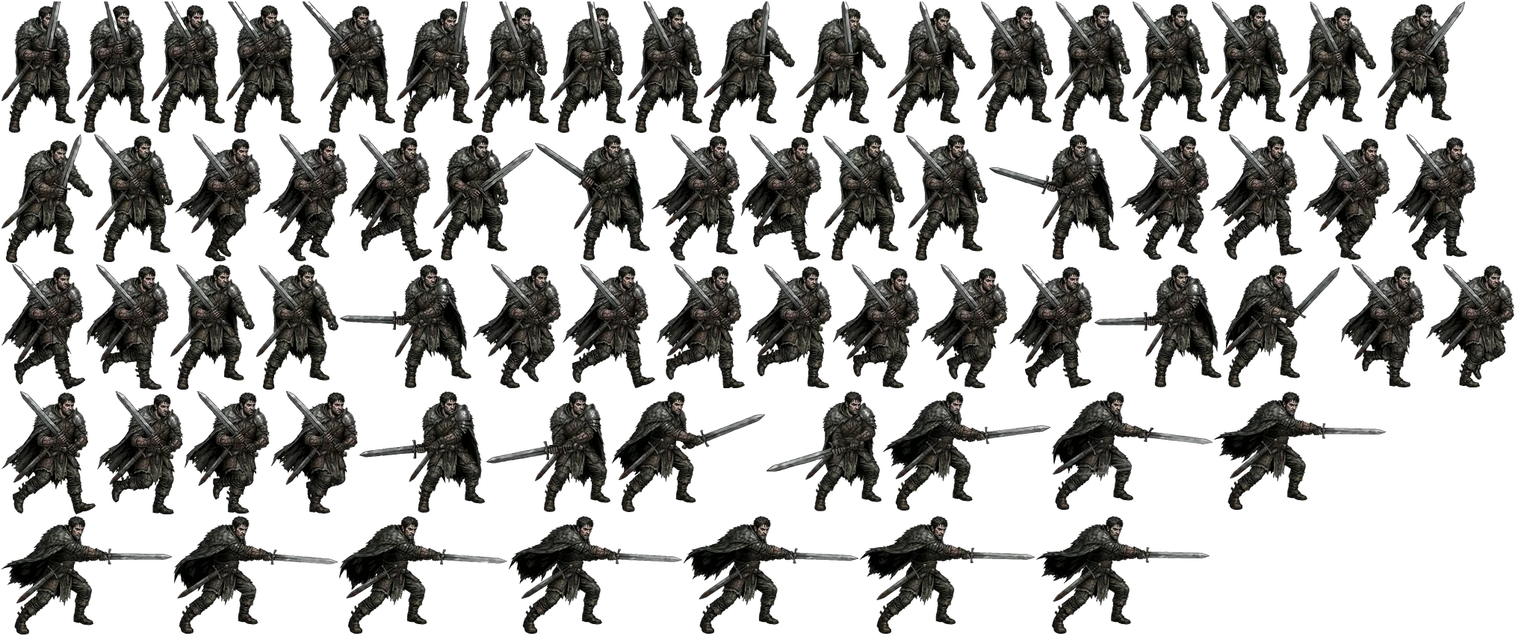
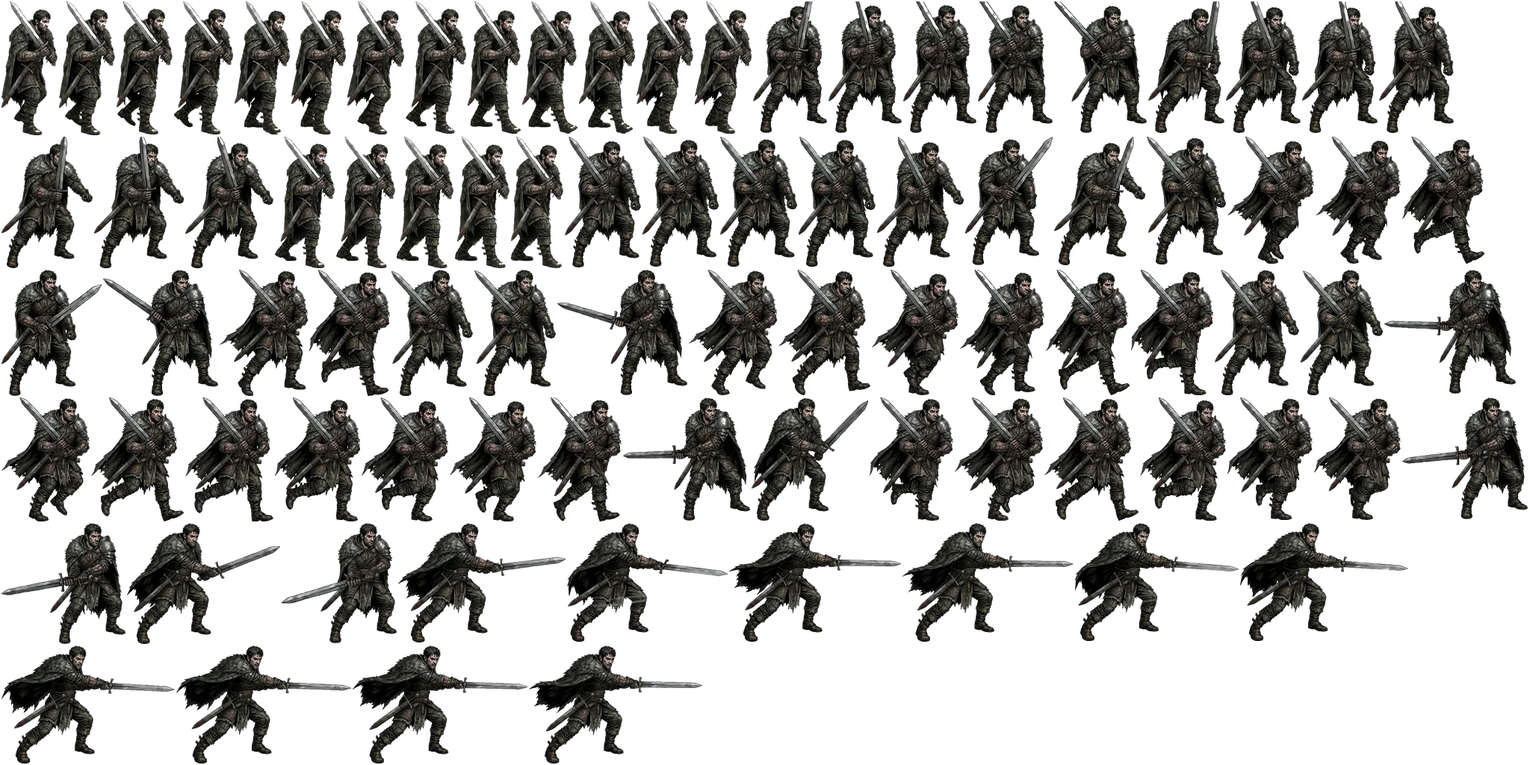
Cofanie się w gardzie z dwuręcznym z filmu Flow
Patryk, 24 XI 19:12: „musi być widać to cofanie”. Pętla z klatek 56–90 filmu z 24 XI 19:46.

Agent: Claude (Opus)
Claude-Session: https://claude.ai/code/session_01GQsjt3bZ7B4T5Es8veBj7T

diff --git a/gra/klatki-bohatera-wielki.js b/gra/klatki-bohatera-wielki.js
@@ -3,5 +3,5 @@
 // ANIMACJE: które klatki po kolei tworzą daną animację. SKALA: ile jednostek świata ma jeden piksel obrazu. PATRZY: 1, bo w filmach postać patrzy w prawo.
 export const SKALA = 0.5882;
 export const PATRZY = 1;
-export const ANIMACJE = {"zamach": ["film-wielki-ciecie4", "film-wielki-ciecie8", "film-wielki-ciecie12", "film-wielki-ciecie16", "film-wielki-ciecie20", "film-wielki-ciecie24", "film-wielki-ciecie28", "film-wielki-ciecie32", "film-wielki-ciecie36", "film-wielki-ciecie40", "film-wielki-ciecie44", "film-wielki-ciecie48", "film-wielki-ciecie50"], "ciecie": ["film-wielki-ciecie52", "film-wielki-ciecie58", "film-wielki-ciecie59", "film-wielki-ciecie60", "film-wielki-ciecie62", "film-wielki-ciecie64", "film-wielki-ciecie66"], "powrot": ["film-wielki-ciecie70", "film-wielki-ciecie73", "film-wielki-ciecie76", "film-wielki-ciecie79", "film-wielki-ciecie82", "film-wielki-ciecie85", "film-wielki-ciecie88", "film-wielki-ciecie91", "film-wielki-ciecie94", "film-wielki-ciecie96"], "gotowosc": ["film-wielki-ciecie88", "film-wielki-ciecie90", "film-wielki-ciecie92", "film-wielki-ciecie94", "film-wielki-ciecie96"], "bieg_miecz": ["film-wielki-bieg10", "film-wielki-bieg11", "film-wielki-bieg12", "film-wielki-bieg13", "film-wielki-bieg14", "film-wielki-bieg15", "film-wielki-bieg16", "film-wielki-bieg17", "film-wielki-bieg18", "film-wielki-bieg19", "film-wielki-bieg20", "film-wielki-bieg21", "film-wielki-bieg22", "film-wielki-bieg23", "film-wielki-bieg24", "film-wielki-bieg25", "film-wielki-bieg26", "film-wielki-bieg27", "film-wielki-bieg28", "film-wielki-bieg29", "film-wielki-bieg30", "film-wielki-bieg31", "film-wielki-bieg32", "film-wielki-bieg33"], "blok_unosi": ["film-wielki-blok96", "film-wielki-blok90", "film-wielki-blok84", "film-wielki-blok80", "film-wielki-blok77", "film-wielki-blok75"], "blok_trzyma": ["film-wielki-blok71", "film-wielki-blok72", "film-wielki-blok73", "film-wielki-blok74", "film-wielki-blok75"], "blok_cios": ["film-wielki-blok72", "film-wielki-blok75", "film-wielki-blok78", "film-wielki-blok81", "film-wielki-blok78", "film-wielki-blok75", "film-wielki-blok72"]};
-export const KLATKI = {"film-wielki-ciecie4": {"w": 134, "h": 169, "ax": 0.3123, "ay": 0.9822, "x": 580, "y": 180}, "film-wielki-ciecie8": {"w": 117, "h": 172, "ax": 0.3547, "ay": 0.9826, "x": 1844, "y": 2}, "film-wielki-ciecie12": {"w": 99, "h": 176, "ax": 0.4192, "ay": 0.9829, "x": 2, "y": 2}, "film-wielki-ciecie16": {"w": 98, "h": 176, "ax": 0.4162, "ay": 0.9829, "x": 103, "y": 2}, "film-wielki-ciecie20": {"w": 98, "h": 176, "ax": 0.4162, "ay": 0.9829, "x": 203, "y": 2}, "film-wielki-ciecie24": {"w": 100, "h": 176, "ax": 0.4221, "ay": 0.9829, "x": 303, "y": 2}, "film-wielki-ciecie28": {"w": 124, "h": 176, "ax": 0.5382, "ay": 0.9829, "x": 405, "y": 2}, "film-wielki-ciecie32": {"w": 154, "h": 169, "ax": 0.6266, "ay": 0.9822, "x": 716, "y": 180}, "film-wielki-ciecie36": {"w": 174, "h": 168, "ax": 0.6695, "ay": 0.9821, "x": 1324, "y": 180}, "film-wielki-ciecie40": {"w": 176, "h": 166, "ax": 0.6742, "ay": 0.982, "x": 455, "y": 354}, "film-wielki-ciecie44": {"w": 170, "h": 165, "ax": 0.6618, "ay": 0.9818, "x": 1465, "y": 354}, "film-wielki-ciecie48": {"w": 168, "h": 163, "ax": 0.6567, "ay": 0.9816, "x": 481, "y": 524}, "film-wielki-ciecie50": {"w": 166, "h": 162, "ax": 0.6547, "ay": 0.9815, "x": 651, "y": 524}, "film-wielki-ciecie52": {"w": 154, "h": 161, "ax": 0.6278, "ay": 0.9814, "x": 1026, "y": 524}, "film-wielki-ciecie58": {"w": 215, "h": 159, "ax": 0.2395, "ay": 0.9811, "x": 1408, "y": 524}, "film-wielki-ciecie59": {"w": 220, "h": 158, "ax": 0.254, "ay": 0.9811, "x": 232, "y": 691}, "film-wielki-ciecie60": {"w": 225, "h": 158, "ax": 0.2667, "ay": 0.9811, "x": 454, "y": 691}, "film-wielki-ciecie62": {"w": 232, "h": 158, "ax": 0.2894, "ay": 0.9811, "x": 681, "y": 691}, "film-wielki-ciecie64": {"w": 234, "h": 158, "ax": 0.2991, "ay": 0.9811, "x": 915, "y": 691}, "film-wielki-ciecie66": {"w": 234, "h": 158, "ax": 0.3028, "ay": 0.9811, "x": 1151, "y": 691}, "film-wielki-ciecie70": {"w": 232, "h": 158, "ax": 0.2989, "ay": 0.9811, "x": 1387, "y": 691}, "film-wielki-ciecie73": {"w": 230, "h": 159, "ax": 0.2919, "ay": 0.9811, "x": 1625, "y": 524}, "film-wielki-ciecie76": {"w": 228, "h": 159, "ax": 0.2873, "ay": 0.9811, "x": 2, "y": 691}, "film-wielki-ciecie79": {"w": 224, "h": 160, "ax": 0.2784, "ay": 0.9813, "x": 1182, "y": 524}, "film-wielki-ciecie82": {"w": 205, "h": 162, "ax": 0.2683, "ay": 0.9815, "x": 819, "y": 524}, "film-wielki-ciecie85": {"w": 156, "h": 165, "ax": 0.2926, "ay": 0.9818, "x": 1637, "y": 354}, "film-wielki-ciecie88": {"w": 102, "h": 176, "ax": 0.4363, "ay": 0.9829, "x": 531, "y": 2}, "film-wielki-ciecie91": {"w": 100, "h": 176, "ax": 0.4279, "ay": 0.9829, "x": 635, "y": 2}, "film-wielki-ciecie94": {"w": 102, "h": 175, "ax": 0.4146, "ay": 0.9829, "x": 1308, "y": 2}, "film-wielki-ciecie96": {"w": 102, "h": 174, "ax": 0.4098, "ay": 0.9827, "x": 1412, "y": 2}, "film-wielki-ciecie90": {"w": 101, "h": 176, "ax": 0.4307, "ay": 0.9829, "x": 737, "y": 2}, "film-wielki-ciecie92": {"w": 100, "h": 176, "ax": 0.4279, "ay": 0.9829, "x": 840, "y": 2}, "film-wielki-bieg10": {"w": 112, "h": 165, "ax": 0.4933, "ay": 0.9788, "x": 1795, "y": 354}, "film-wielki-bieg11": {"w": 114, "h": 164, "ax": 0.5022, "ay": 0.9817, "x": 247, "y": 524}, "film-wielki-bieg12": {"w": 116, "h": 164, "ax": 0.5108, "ay": 0.9817, "x": 363, "y": 524}, "film-wielki-bieg13": {"w": 118, "h": 165, "ax": 0.5191, "ay": 0.9848, "x": 1909, "y": 354}, "film-wielki-bieg14": {"w": 118, "h": 166, "ax": 0.5212, "ay": 0.985, "x": 633, "y": 354}, "film-wielki-bieg15": {"w": 118, "h": 168, "ax": 0.5254, "ay": 0.9852, "x": 1500, "y": 180}, "film-wielki-bieg16": {"w": 118, "h": 169, "ax": 0.5234, "ay": 0.9911, "x": 872, "y": 180}, "film-wielki-bieg17": {"w": 123, "h": 168, "ax": 0.4919, "ay": 1.003, "x": 1620, "y": 180}, "film-wielki-bieg18": {"w": 126, "h": 165, "ax": 0.4741, "ay": 1.0212, "x": 2, "y": 524}, "film-wielki-bieg19": {"w": 124, "h": 166, "ax": 0.4737, "ay": 1.009, "x": 753, "y": 354}, "film-wielki-bieg20": {"w": 118, "h": 166, "ax": 0.4895, "ay": 1.003, "x": 879, "y": 354}, "film-wielki-bieg21": {"w": 114, "h": 166, "ax": 0.511, "ay": 0.988, "x": 999, "y": 354}, "film-wielki-bieg22": {"w": 115, "h": 165, "ax": 0.513, "ay": 0.9909, "x": 130, "y": 524}, "film-wielki-bieg23": {"w": 116, "h": 166, "ax": 0.5152, "ay": 0.9909, "x": 1115, "y": 354}, "film-wielki-bieg24": {"w": 116, "h": 166, "ax": 0.5193, "ay": 0.994, "x": 1233, "y": 354}, "film-wielki-bieg25": {"w": 116, "h": 168, "ax": 0.5172, "ay": 0.994, "x": 1745, "y": 180}, "film-wielki-bieg26": {"w": 116, "h": 170, "ax": 0.5152, "ay": 0.9971, "x": 234, "y": 180}, "film-wielki-bieg27": {"w": 114, "h": 170, "ax": 0.5109, "ay": 1.0, "x": 352, "y": 180}, "film-wielki-bieg28": {"w": 113, "h": 168, "ax": 0.5044, "ay": 1.0089, "x": 1863, "y": 180}, "film-wielki-bieg29": {"w": 112, "h": 166, "ax": 0.4978, "ay": 1.021, "x": 1351, "y": 354}, "film-wielki-bieg30": {"w": 112, "h": 168, "ax": 0.4821, "ay": 1.0089, "x": 2, "y": 354}, "film-wielki-bieg31": {"w": 110, "h": 170, "ax": 0.4796, "ay": 0.9971, "x": 468, "y": 180}, "film-wielki-bieg32": {"w": 108, "h": 169, "ax": 0.4839, "ay": 0.9882, "x": 992, "y": 180}, "film-wielki-bieg33": {"w": 110, "h": 168, "ax": 0.4886, "ay": 0.9791, "x": 116, "y": 354}, "film-wielki-blok96": {"w": 103, "h": 174, "ax": 0.4078, "ay": 0.9827, "x": 1516, "y": 2}, "film-wielki-blok90": {"w": 103, "h": 174, "ax": 0.4078, "ay": 0.9828, "x": 1621, "y": 2}, "film-wielki-blok84": {"w": 106, "h": 171, "ax": 0.4171, "ay": 0.9825, "x": 126, "y": 180}, "film-wielki-blok80": {"w": 109, "h": 169, "ax": 0.3945, "ay": 0.9822, "x": 1102, "y": 180}, "film-wielki-blok77": {"w": 113, "h": 168, "ax": 0.3628, "ay": 0.9822, "x": 228, "y": 354}, "film-wielki-blok75": {"w": 116, "h": 174, "ax": 0.3448, "ay": 0.9828, "x": 1726, "y": 2}, "film-wielki-blok71": {"w": 122, "h": 172, "ax": 0.3224, "ay": 0.9884, "x": 2, "y": 180}, "film-wielki-blok72": {"w": 122, "h": 176, "ax": 0.3251, "ay": 0.9829, "x": 942, "y": 2}, "film-wielki-blok73": {"w": 120, "h": 176, "ax": 0.3305, "ay": 0.9829, "x": 1066, "y": 2}, "film-wielki-blok74": {"w": 118, "h": 176, "ax": 0.3376, "ay": 0.9829, "x": 1188, "y": 2}, "film-wielki-blok78": {"w": 110, "h": 168, "ax": 0.371, "ay": 0.9822, "x": 343, "y": 354}, "film-wielki-blok81": {"w": 109, "h": 169, "ax": 0.4083, "ay": 0.9822, "x": 1213, "y": 180}};
+export const ANIMACJE = {"zamach": ["film-wielki-ciecie4", "film-wielki-ciecie8", "film-wielki-ciecie12", "film-wielki-ciecie16", "film-wielki-ciecie20", "film-wielki-ciecie24", "film-wielki-ciecie28", "film-wielki-ciecie32", "film-wielki-ciecie36", "film-wielki-ciecie40", "film-wielki-ciecie44", "film-wielki-ciecie48", "film-wielki-ciecie50"], "ciecie": ["film-wielki-ciecie52", "film-wielki-ciecie58", "film-wielki-ciecie59", "film-wielki-ciecie60", "film-wielki-ciecie62", "film-wielki-ciecie64", "film-wielki-ciecie66"], "powrot": ["film-wielki-ciecie70", "film-wielki-ciecie73", "film-wielki-ciecie76", "film-wielki-ciecie79", "film-wielki-ciecie82", "film-wielki-ciecie85", "film-wielki-ciecie88", "film-wielki-ciecie91", "film-wielki-ciecie94", "film-wielki-ciecie96"], "gotowosc": ["film-wielki-ciecie88", "film-wielki-ciecie90", "film-wielki-ciecie92", "film-wielki-ciecie94", "film-wielki-ciecie96"], "bieg_miecz": ["film-wielki-bieg10", "film-wielki-bieg11", "film-wielki-bieg12", "film-wielki-bieg13", "film-wielki-bieg14", "film-wielki-bieg15", "film-wielki-bieg16", "film-wielki-bieg17", "film-wielki-bieg18", "film-wielki-bieg19", "film-wielki-bieg20", "film-wielki-bieg21", "film-wielki-bieg22", "film-wielki-bieg23", "film-wielki-bieg24", "film-wielki-bieg25", "film-wielki-bieg26", "film-wielki-bieg27", "film-wielki-bieg28", "film-wielki-bieg29", "film-wielki-bieg30", "film-wielki-bieg31", "film-wielki-bieg32", "film-wielki-bieg33"], "blok_unosi": ["film-wielki-blok96", "film-wielki-blok90", "film-wielki-blok84", "film-wielki-blok80", "film-wielki-blok77", "film-wielki-blok75"], "blok_trzyma": ["film-wielki-blok71", "film-wielki-blok72", "film-wielki-blok73", "film-wielki-blok74", "film-wielki-blok75"], "blok_cios": ["film-wielki-blok72", "film-wielki-blok75", "film-wielki-blok78", "film-wielki-blok81", "film-wielki-blok78", "film-wielki-blok75", "film-wielki-blok72"], "cofa": ["film-wielki-cofa56s", "film-wielki-cofa58s", "film-wielki-cofa60s", "film-wielki-cofa62s", "film-wielki-cofa64s", "film-wielki-cofa66s", "film-wielki-cofa68s", "film-wielki-cofa70s", "film-wielki-cofa72s", "film-wielki-cofa74s", "film-wielki-cofa76s", "film-wielki-cofa78s", "film-wielki-cofa80s", "film-wielki-cofa82s", "film-wielki-cofa84s", "film-wielki-cofa86s", "film-wielki-cofa88s", "film-wielki-cofa90s"]};
+export const KLATKI = {"film-wielki-ciecie4": {"w": 134, "h": 169, "ax": 0.3123, "ay": 0.9822, "x": 2, "y": 361}, "film-wielki-ciecie8": {"w": 117, "h": 172, "ax": 0.3547, "ay": 0.9826, "x": 1292, "y": 183}, "film-wielki-ciecie12": {"w": 99, "h": 176, "ax": 0.4192, "ay": 0.9829, "x": 1008, "y": 2}, "film-wielki-ciecie16": {"w": 98, "h": 176, "ax": 0.4162, "ay": 0.9829, "x": 1109, "y": 2}, "film-wielki-ciecie20": {"w": 98, "h": 176, "ax": 0.4162, "ay": 0.9829, "x": 1209, "y": 2}, "film-wielki-ciecie24": {"w": 100, "h": 176, "ax": 0.4221, "ay": 0.9829, "x": 1309, "y": 2}, "film-wielki-ciecie28": {"w": 124, "h": 176, "ax": 0.5382, "ay": 0.9829, "x": 1411, "y": 2}, "film-wielki-ciecie32": {"w": 154, "h": 169, "ax": 0.6266, "ay": 0.9822, "x": 138, "y": 361}, "film-wielki-ciecie36": {"w": 174, "h": 168, "ax": 0.6695, "ay": 0.9821, "x": 746, "y": 361}, "film-wielki-ciecie40": {"w": 176, "h": 166, "ax": 0.6742, "ay": 0.982, "x": 1853, "y": 361}, "film-wielki-ciecie44": {"w": 170, "h": 165, "ax": 0.6618, "ay": 0.9818, "x": 834, "y": 532}, "film-wielki-ciecie48": {"w": 168, "h": 163, "ax": 0.6567, "ay": 0.9816, "x": 1877, "y": 532}, "film-wielki-ciecie50": {"w": 166, "h": 162, "ax": 0.6547, "ay": 0.9815, "x": 2, "y": 700}, "film-wielki-ciecie52": {"w": 154, "h": 161, "ax": 0.6278, "ay": 0.9814, "x": 377, "y": 700}, "film-wielki-ciecie58": {"w": 215, "h": 159, "ax": 0.2395, "ay": 0.9811, "x": 759, "y": 700}, "film-wielki-ciecie59": {"w": 220, "h": 158, "ax": 0.254, "ay": 0.9811, "x": 1438, "y": 700}, "film-wielki-ciecie60": {"w": 225, "h": 158, "ax": 0.2667, "ay": 0.9811, "x": 1660, "y": 700}, "film-wielki-ciecie62": {"w": 232, "h": 158, "ax": 0.2894, "ay": 0.9811, "x": 2, "y": 864}, "film-wielki-ciecie64": {"w": 234, "h": 158, "ax": 0.2991, "ay": 0.9811, "x": 236, "y": 864}, "film-wielki-ciecie66": {"w": 234, "h": 158, "ax": 0.3028, "ay": 0.9811, "x": 472, "y": 864}, "film-wielki-ciecie70": {"w": 232, "h": 158, "ax": 0.2989, "ay": 0.9811, "x": 708, "y": 864}, "film-wielki-ciecie73": {"w": 230, "h": 159, "ax": 0.2919, "ay": 0.9811, "x": 976, "y": 700}, "film-wielki-ciecie76": {"w": 228, "h": 159, "ax": 0.2873, "ay": 0.9811, "x": 1208, "y": 700}, "film-wielki-ciecie79": {"w": 224, "h": 160, "ax": 0.2784, "ay": 0.9813, "x": 533, "y": 700}, "film-wielki-ciecie82": {"w": 205, "h": 162, "ax": 0.2683, "ay": 0.9815, "x": 170, "y": 700}, "film-wielki-ciecie85": {"w": 156, "h": 165, "ax": 0.2926, "ay": 0.9818, "x": 1006, "y": 532}, "film-wielki-ciecie88": {"w": 102, "h": 176, "ax": 0.4363, "ay": 0.9829, "x": 1537, "y": 2}, "film-wielki-ciecie91": {"w": 100, "h": 176, "ax": 0.4279, "ay": 0.9829, "x": 1641, "y": 2}, "film-wielki-ciecie94": {"w": 102, "h": 175, "ax": 0.4146, "ay": 0.9829, "x": 756, "y": 183}, "film-wielki-ciecie96": {"w": 102, "h": 174, "ax": 0.4098, "ay": 0.9827, "x": 860, "y": 183}, "film-wielki-ciecie90": {"w": 101, "h": 176, "ax": 0.4307, "ay": 0.9829, "x": 1743, "y": 2}, "film-wielki-ciecie92": {"w": 100, "h": 176, "ax": 0.4279, "ay": 0.9829, "x": 1846, "y": 2}, "film-wielki-bieg10": {"w": 112, "h": 165, "ax": 0.4933, "ay": 0.9788, "x": 1164, "y": 532}, "film-wielki-bieg11": {"w": 114, "h": 164, "ax": 0.5022, "ay": 0.9817, "x": 1643, "y": 532}, "film-wielki-bieg12": {"w": 116, "h": 164, "ax": 0.5108, "ay": 0.9817, "x": 1759, "y": 532}, "film-wielki-bieg13": {"w": 118, "h": 165, "ax": 0.5191, "ay": 0.9848, "x": 1278, "y": 532}, "film-wielki-bieg14": {"w": 118, "h": 166, "ax": 0.5212, "ay": 0.985, "x": 2, "y": 532}, "film-wielki-bieg15": {"w": 118, "h": 168, "ax": 0.5254, "ay": 0.9852, "x": 922, "y": 361}, "film-wielki-bieg16": {"w": 118, "h": 169, "ax": 0.5234, "ay": 0.9911, "x": 294, "y": 361}, "film-wielki-bieg17": {"w": 123, "h": 168, "ax": 0.4919, "ay": 1.003, "x": 1042, "y": 361}, "film-wielki-bieg18": {"w": 126, "h": 165, "ax": 0.4741, "ay": 1.0212, "x": 1398, "y": 532}, "film-wielki-bieg19": {"w": 124, "h": 166, "ax": 0.4737, "ay": 1.009, "x": 122, "y": 532}, "film-wielki-bieg20": {"w": 118, "h": 166, "ax": 0.4895, "ay": 1.003, "x": 248, "y": 532}, "film-wielki-bieg21": {"w": 114, "h": 166, "ax": 0.511, "ay": 0.988, "x": 368, "y": 532}, "film-wielki-bieg22": {"w": 115, "h": 165, "ax": 0.513, "ay": 0.9909, "x": 1526, "y": 532}, "film-wielki-bieg23": {"w": 116, "h": 166, "ax": 0.5152, "ay": 0.9909, "x": 484, "y": 532}, "film-wielki-bieg24": {"w": 116, "h": 166, "ax": 0.5193, "ay": 0.994, "x": 602, "y": 532}, "film-wielki-bieg25": {"w": 116, "h": 168, "ax": 0.5172, "ay": 0.994, "x": 1167, "y": 361}, "film-wielki-bieg26": {"w": 116, "h": 170, "ax": 0.5152, "ay": 0.9971, "x": 1643, "y": 183}, "film-wielki-bieg27": {"w": 114, "h": 170, "ax": 0.5109, "ay": 1.0, "x": 1761, "y": 183}, "film-wielki-bieg28": {"w": 113, "h": 168, "ax": 0.5044, "ay": 1.0089, "x": 1285, "y": 361}, "film-wielki-bieg29": {"w": 112, "h": 166, "ax": 0.4978, "ay": 1.021, "x": 720, "y": 532}, "film-wielki-bieg30": {"w": 112, "h": 168, "ax": 0.4821, "ay": 1.0089, "x": 1400, "y": 361}, "film-wielki-bieg31": {"w": 110, "h": 170, "ax": 0.4796, "ay": 0.9971, "x": 1877, "y": 183}, "film-wielki-bieg32": {"w": 108, "h": 169, "ax": 0.4839, "ay": 0.9882, "x": 414, "y": 361}, "film-wielki-bieg33": {"w": 110, "h": 168, "ax": 0.4886, "ay": 0.9791, "x": 1514, "y": 361}, "film-wielki-blok96": {"w": 103, "h": 174, "ax": 0.4078, "ay": 0.9827, "x": 964, "y": 183}, "film-wielki-blok90": {"w": 103, "h": 174, "ax": 0.4078, "ay": 0.9828, "x": 1069, "y": 183}, "film-wielki-blok84": {"w": 106, "h": 171, "ax": 0.4171, "ay": 0.9825, "x": 1535, "y": 183}, "film-wielki-blok80": {"w": 109, "h": 169, "ax": 0.3945, "ay": 0.9822, "x": 524, "y": 361}, "film-wielki-blok77": {"w": 113, "h": 168, "ax": 0.3628, "ay": 0.9822, "x": 1626, "y": 361}, "film-wielki-blok75": {"w": 116, "h": 174, "ax": 0.3448, "ay": 0.9828, "x": 1174, "y": 183}, "film-wielki-blok71": {"w": 122, "h": 172, "ax": 0.3224, "ay": 0.9884, "x": 1411, "y": 183}, "film-wielki-blok72": {"w": 122, "h": 176, "ax": 0.3251, "ay": 0.9829, "x": 2, "y": 183}, "film-wielki-blok73": {"w": 120, "h": 176, "ax": 0.3305, "ay": 0.9829, "x": 126, "y": 183}, "film-wielki-blok74": {"w": 118, "h": 176, "ax": 0.3376, "ay": 0.9829, "x": 248, "y": 183}, "film-wielki-blok78": {"w": 110, "h": 168, "ax": 0.371, "ay": 0.9822, "x": 1741, "y": 361}, "film-wielki-blok81": {"w": 109, "h": 169, "ax": 0.4083, "ay": 0.9822, "x": 635, "y": 361}, "film-wielki-cofa56s": {"w": 75, "h": 179, "ax": 0.5241, "ay": 0.9943, "x": 2, "y": 2}, "film-wielki-cofa58s": {"w": 75, "h": 179, "ax": 0.513, "ay": 0.9942, "x": 79, "y": 2}, "film-wielki-cofa60s": {"w": 75, "h": 178, "ax": 0.5051, "ay": 0.9942, "x": 156, "y": 2}, "film-wielki-cofa62s": {"w": 79, "h": 178, "ax": 0.5374, "ay": 0.9942, "x": 233, "y": 2}, "film-wielki-cofa64s": {"w": 81, "h": 177, "ax": 0.5495, "ay": 0.9942, "x": 543, "y": 2}, "film-wielki-cofa66s": {"w": 80, "h": 176, "ax": 0.5471, "ay": 0.9942, "x": 368, "y": 183}, "film-wielki-cofa68s": {"w": 79, "h": 176, "ax": 0.5416, "ay": 0.9941, "x": 450, "y": 183}, "film-wielki-cofa70s": {"w": 76, "h": 176, "ax": 0.5316, "ay": 0.9941, "x": 531, "y": 183}, "film-wielki-cofa72s": {"w": 73, "h": 176, "ax": 0.5258, "ay": 0.9941, "x": 609, "y": 183}, "film-wielki-cofa74s": {"w": 70, "h": 176, "ax": 0.5166, "ay": 0.9942, "x": 684, "y": 183}, "film-wielki-cofa76s": {"w": 71, "h": 177, "ax": 0.5289, "ay": 0.9971, "x": 626, "y": 2}, "film-wielki-cofa78s": {"w": 74, "h": 177, "ax": 0.5392, "ay": 1.0, "x": 699, "y": 2}, "film-wielki-cofa80s": {"w": 75, "h": 177, "ax": 0.5565, "ay": 1.0029, "x": 775, "y": 2}, "film-wielki-cofa82s": {"w": 74, "h": 178, "ax": 0.5437, "ay": 0.9971, "x": 314, "y": 2}, "film-wielki-cofa84s": {"w": 73, "h": 178, "ax": 0.5284, "ay": 0.9942, "x": 390, "y": 2}, "film-wielki-cofa86s": {"w": 76, "h": 177, "ax": 0.5282, "ay": 0.9942, "x": 852, "y": 2}, "film-wielki-cofa88s": {"w": 76, "h": 177, "ax": 0.5326, "ay": 0.9942, "x": 930, "y": 2}, "film-wielki-cofa90s": {"w": 76, "h": 178, "ax": 0.5322, "ay": 0.9942, "x": 465, "y": 2}};

diff --git a/gra/rysowanie.js b/gra/rysowanie.js
@@ -566,6 +566,8 @@ export function przygotujRysowanie(cv, obrazChaty, { wymusProcesor = false, obra
       const koniec = c.czasPowrotu + (c.utknal ? BOHATER.miecz.grzeznie : 0);
       return klatkaZ('powrot', c.utknal ? 0 : c.t / Math.max(0.001, koniec));
     }
+    // cofanie się w gardzie z filmu (dwuręczny, Patryk z Flow, 24 XI 19:46): jeden krok filmu na jeden krok gardy z walka.js
+    if (b.blok && b.idzie && A.cofa && czas - stanRys.blokCios >= 0.4 && czas - stanRys.blokOd >= 0.2) return klatkaPetli('cofa', stanRys.cofaFaza);
     if (b.blok && A.blok_trzyma) {
       // blok z filmu (Patryk, 24 XI 15:17: „żeby lepiej wygląda animacja blokowania”): unosi miecz w 0,2 s, trzyma
       // (klatki tam i z powrotem, powoli), a cios w ostrze odpycha go na 0,4 s i wraca do trzymania
@@ -975,7 +977,9 @@ export function przygotujRysowanie(cv, obrazChaty, { wymusProcesor = false, obra
       lx *= 0.5;                                     // film sam porusza ciałem, kod tylko dodaje trochę wagi
       const dj = pz.drgaj ? (Math.random() - 0.5) * pz.drgaj : 0;
       // krok w gardzie: przy każdym kroku lekko ugina kolana i podnosi się (fala prędkości z walka.js)
-      const krokG = b.blok && b.idzie ? 0.5 - 0.5 * Math.cos(b.krokGardy || 0) : 0;
+      // Z filmem cofania faza filmu idzie za krokiem gardy; idąc do przodu (w stronę, w którą patrzy) film leci wstecz.
+      if (b.blok && b.idzie) { const f = (b.krokGardy || 0) / TAU; stanRys.cofaFaza = ddx * pz.sx > 0.2 * dd ? -f : f; }
+      const krokG = b.blok && b.idzie && !A.cofa ? 0.5 - 0.5 * Math.cos(b.krokGardy || 0) : 0;
       ustawPostac(bohS, kB, pz.sx, b.x + dj, b.y - 2.5 * Math.sin(b.krokGardy || 0) * (krokG > 0 ? 1 : 0), lx, sy * (1 - 0.035 * krokG), obrot);
       if (b.stan === 'unik' && unikPionowy(b)) {
         // Przewrót w górę i w dół z filmów Patryka (Flow, 24 XI, 14:31): koziołek plecami albo przodem, bez obracania obrazu.

diff --git a/gra/dane.js b/gra/dane.js
@@ -13,9 +13,9 @@ export const BOHATER = {
   // 24 XI 15:17, Patryk: blok „bardziej efektywniejszy”. Było: koszt 14 (ciężki ×3), parowanie 0,18 s, spowolnienie 0,45, kąt 1,35 rad,
   // odrzut 160, ciężki cios przez blok 50% ran, odnowa siły w bloku 30%. Teraz blok obraca się sam do atakującego (bez myszki),
   // a zablokowany ghul odskakuje i musi się zebrać (odpoczynek), więc blok daje okazję do cięcia.
-  // 24 XI 19:09, Patryk: w bloku „jeździ po mapie”. Było spowolnienie 0,55 płynnie; teraz 0,3 krótkimi krokami (2,2 na sekundę),
+  // 24 XI 19:09, Patryk: w bloku „jeździ po mapie”. Było spowolnienie 0,55 płynnie; teraz 0,3 krótkimi krokami (2,2 na sekundę; 25 XI 1,4, żeby film cofania dwuręcznym nie biegł za szybko),
   // a zablokowany cios cofa go o pół kroku (cofniecie: prędkość odrzutu, ciężki ×2).
-  blok: { kosztNaCios: 9, mnoznikCiezki: 2.2, oknoParowania: 0.25, spowolnienie: 0.3, krokiNaSekunde: 2.2, cofniecie: 70, kat: 1.75, odrzut: 240, ranaCiezka: 0.3, odnowa: 0.5, obrot: 9, zasiegObrotu: 260 },
+  blok: { kosztNaCios: 9, mnoznikCiezki: 2.2, oknoParowania: 0.25, spowolnienie: 0.3, krokiNaSekunde: 1.4, cofniecie: 70, kat: 1.75, odrzut: 240, ranaCiezka: 0.3, odnowa: 0.5, obrot: 9, zasiegObrotu: 260 },
 
   // Ciosy idą na zmianę: w prawo, w lewo, w prawo… Każdy następny zadany od razu po poprzednim
   // ma rozpęd: krótszy zamach (ciężar miecza pracuje dla ciebie, jeśli nie dasz mu stanąć).

diff --git a/narzedzia/wytnij-z-filmow.py b/narzedzia/wytnij-z-filmow.py
@@ -79,7 +79,11 @@ POSTACIE = {
             'blok_unosi':  ('film-wielki-blok', [96, 90, 84, 80, 77, 75]),
             'blok_trzyma': ('film-wielki-blok', [71, 72, 73, 74, 75]),
             'blok_cios':   ('film-wielki-blok', [72, 75, 78, 81, 78, 75, 72]),
+            # cofanie się w gardzie (Patryk z Flow, 24 XI 19:46): tylna noga w tył, przednia dostawiona; klatka 91 wygląda jak 56.
+            # W kadrze bohater sam odchodzi w lewo, więc stopy idą za środkiem ciała, a drogę robi gra.
+            'cofa':        ('film-wielki-cofa', list(range(56, 91, 2))),
         },
+        'sledz': {'cofa'},
     },
     'ghul': {
         'obraz': 'grafika/ghul.webp',
@@ -116,10 +120,10 @@ ZIEMIA = {('film-magia', k) for k in [64, 67, 70, 73, 76, 79, 82, 85, 88, 91]}
 PATRZY = 1                # w filmach postacie patrzą w prawo
 # Film chodu przodem (Patryk z Flow, 24 XI) ma bohatera w innym miejscu kadru: środek ciała około 324 piksela, a nie 295.
 # Stopy dla klatek tego filmu: środek kołysania ciała w cyklu i wiersz, w którym stopy mijają się na ziemi.
-STOPY_FILMU = {'film-chod-przod': (324, 346), 'film-miecz-wyciaga': (331, 340), 'film-przewrot-przod': (318, 327), 'film-przewrot-tyl': (321, 342), 'film-bieg-miecz': (292, 340), 'film-wielki-bieg': (285, 340)}
+STOPY_FILMU = {'film-chod-przod': (324, 346), 'film-miecz-wyciaga': (331, 340), 'film-przewrot-przod': (318, 327), 'film-przewrot-tyl': (321, 342), 'film-bieg-miecz': (292, 340), 'film-wielki-bieg': (285, 340), 'film-wielki-cofa': (283, 347)}
 # W filmie wyciągania miecza (Patryk z Flow, 24 XI) bohater jest o 5% niższy w kadrze (321 zamiast 337 pikseli): klatki powiększamy.
 # Przewroty w górę i w dół: stojący bohater ma tam 298 i 331 pikseli, a w chodzie przodem i plecami 327 i 340.
-SKALA_FILMU = {'film-miecz-wyciaga': 1.05, 'film-przewrot-przod': 1.10, 'film-przewrot-tyl': 1.03, 'film-bieg-miecz': 1.04}
+SKALA_FILMU = {'film-miecz-wyciaga': 1.05, 'film-przewrot-przod': 1.10, 'film-przewrot-tyl': 1.03, 'film-bieg-miecz': 1.04, 'film-wielki-cofa': 1.03}
 
 
 def kluczuj(obraz, dol=0.80):

diff --git a/STAN.md b/STAN.md
@@ -2,7 +2,7 @@
 
 Aktualizowany przy każdej zmianie. Historia jest w gicie, tutaj tylko to, co obowiązuje teraz.
 
-**Ostatnia zmiana:** 25 XI 2026 przed południem: drzewo zasłaniające bohatera przygasa, zamiast robić z niego ducha. Wcześniej 24 XI wpół do 20: wyciąganie i chowanie miecza tylko na stojąco, w biegu od razu. Wcześniej po 19: w bloku bohater drobi krótkie kroki zamiast sunąć, a cios w ostrze go cofa. Wcześniej po 19: z dwuręcznym bohater ma własne cięcie, gardę, bieg i blok (filmy Patryka z Flow), wybór ulepszeń w ramie z czaszkami. Wcześniej przed 19: totemy da się rozbić (strona cichnie), mikstury z łupu (Q), ognisko gaśnie i trzeba dorzucać drewna ze stosu pod chatą, wybór ulepszenia po każdej fali; dwie bronie (miecz i dwuręczny). Wcześniej wpół do 19: paski w ramie z czaszkami z portretem, totemy z filmu zamiast mgieł (potwory wychodzą spod nich). Wcześniej po 18: dłuższe przerwy między falami (9 s), z każdą falą więcej potworów i bardziej agresywne; etap B grafik Przemka (iskry przy bloku, rozbryzgi krwi, krąg z kolcami pod kolosem, ikony przycisków na telefonie). Wcześniej wieczorem: etap A grafik Przemka (ognisko z filmu, drzewa z arkuszy, kępy trawy, mchu i liści na ziemi, krew i kałuże z arkuszy; docs/materialy-przemka.md). Wcześniej po 15: blok z filmu (unosi, trzyma, drga przy ciosie) i skuteczniejszy (tańszy, szerszy, sam się obraca do wroga). W walce bohater biega z mieczem w dłoni, poza walką stoi prosto. Przed 15: drzwi zamyka się też z izby, jaśniej wokół bohatera, gęstszy koziołek w górę. Wcześniej po 14: przewrót w górę i w dół z filmów Patryka, drzwi chaty otwiera się E (z animacją i skrzypieniem), nowa mgła, polecenie do Flow w dwóch krokach. Wcześniej po południu: chata jak w Tibii (wchodzi się drzwiami, dach znika, w środku posłanie), wyciąganie i chowanie miecza z filmu, chód w dół przodem. Wcześniej w południe: chata ma izbę z obrazu Gemini (chodzenie, sen na posłaniu, wyjście drzwiami), a bohater obok chaty nie robi się już przezroczysty. Wcześniej rano: drzwi i odpoczynek w ciszy, cięcie jak mieczem (sierp i ostrze), garda w walce, plan chaty. W nocy: ghul i kolos z filmów Przemka, a bohater dostał bieg, chód plecami, przewrót przy uniku i upadek. Wcześniej tej nocy klątwa pod R i bohater z filmów. Fundamenty i gra czekają w pull requeście nr 1.
+**Ostatnia zmiana:** 25 XI 2026 przed południem: z dwuręcznym w bloku widać kroki w tył (film Patryka z Flow); drzewo zasłaniające bohatera przygasa, zamiast robić z niego ducha. Wcześniej 24 XI wpół do 20: wyciąganie i chowanie miecza tylko na stojąco, w biegu od razu. Wcześniej po 19: w bloku bohater drobi krótkie kroki zamiast sunąć, a cios w ostrze go cofa. Wcześniej po 19: z dwuręcznym bohater ma własne cięcie, gardę, bieg i blok (filmy Patryka z Flow), wybór ulepszeń w ramie z czaszkami. Wcześniej przed 19: totemy da się rozbić (strona cichnie), mikstury z łupu (Q), ognisko gaśnie i trzeba dorzucać drewna ze stosu pod chatą, wybór ulepszenia po każdej fali; dwie bronie (miecz i dwuręczny). Wcześniej wpół do 19: paski w ramie z czaszkami z portretem, totemy z filmu zamiast mgieł (potwory wychodzą spod nich). Wcześniej po 18: dłuższe przerwy między falami (9 s), z każdą falą więcej potworów i bardziej agresywne; etap B grafik Przemka (iskry przy bloku, rozbryzgi krwi, krąg z kolcami pod kolosem, ikony przycisków na telefonie). Wcześniej wieczorem: etap A grafik Przemka (ognisko z filmu, drzewa z arkuszy, kępy trawy, mchu i liści na ziemi, krew i kałuże z arkuszy; docs/materialy-przemka.md). Wcześniej po 15: blok z filmu (unosi, trzyma, drga przy ciosie) i skuteczniejszy (tańszy, szerszy, sam się obraca do wroga). W walce bohater biega z mieczem w dłoni, poza walką stoi prosto. Przed 15: drzwi zamyka się też z izby, jaśniej wokół bohatera, gęstszy koziołek w górę. Wcześniej po 14: przewrót w górę i w dół z filmów Patryka, drzwi chaty otwiera się E (z animacją i skrzypieniem), nowa mgła, polecenie do Flow w dwóch krokach. Wcześniej po południu: chata jak w Tibii (wchodzi się drzwiami, dach znika, w środku posłanie), wyciąganie i chowanie miecza z filmu, chód w dół przodem. Wcześniej w południe: chata ma izbę z obrazu Gemini (chodzenie, sen na posłaniu, wyjście drzwiami), a bohater obok chaty nie robi się już przezroczysty. Wcześniej rano: drzwi i odpoczynek w ciszy, cięcie jak mieczem (sierp i ostrze), garda w walce, plan chaty. W nocy: ghul i kolos z filmów Przemka, a bohater dostał bieg, chód plecami, przewrót przy uniku i upadek. Wcześniej tej nocy klątwa pod R i bohater z filmów. Fundamenty i gra czekają w pull requeście nr 1.
 
 ## Teraz
 
